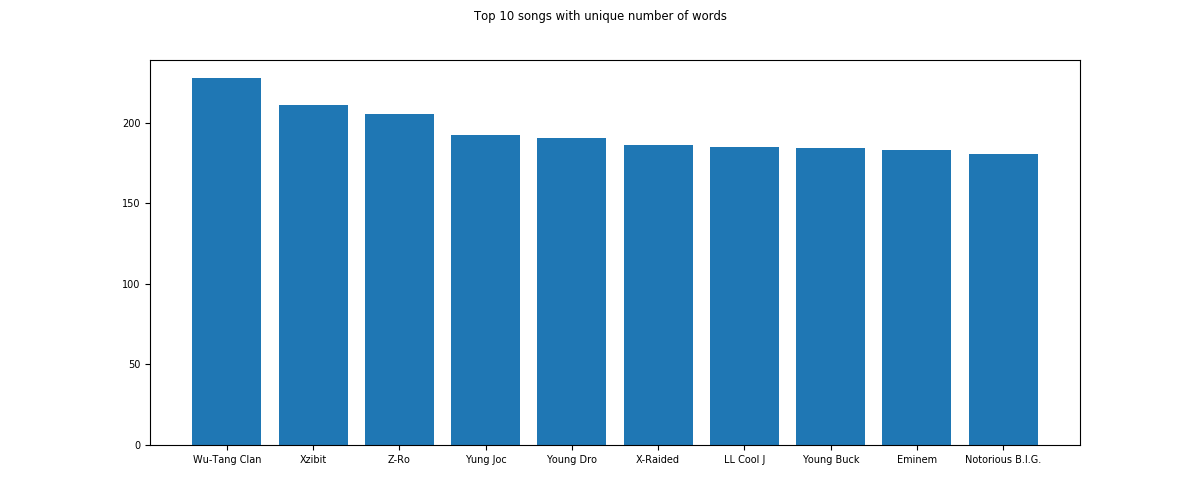
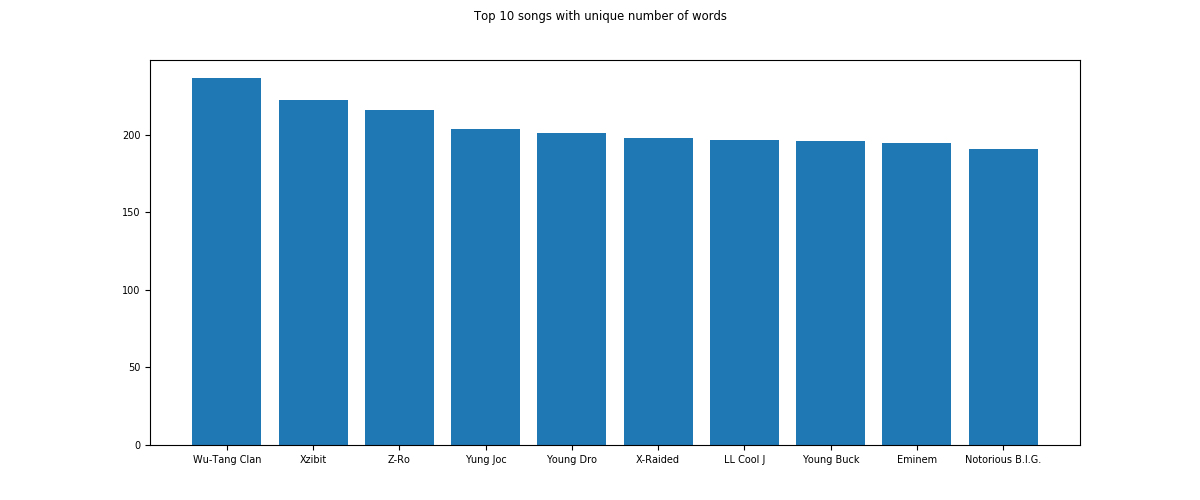
A1 EECS4415

diff --git a/dstats.py b/dstats.py
@@ -61,11 +61,18 @@ def token_words(lyric):
 #that is not punctuation & stopwords(nltk.stopwords)
     lyric = lyric.lower()
     #tokenizer that will tokenize lyric('text') into words without punctuation
-    tokenizer = RegexpTokenizer(r'\w+')
+    #will split aphostrophe words into 2 seperate words but its okay as we only care about full words
+    # e.g : would've = would ve but this is fine as we know stopwords will remove ve
+    # tweetTokenizer was producing very irregular words in lyric such as (8, numbers and was dist
+
+    #tokenize word into alphabets only
+    tokenizer = RegexpTokenizer(r'[a-z]+')
     #apply tokenizer
     words = tokenizer.tokenize(lyric)
     #convert list of stopwords to set of stopwords for faster access
     en_stopwords = set(stopwords.words('english'))
+
+    #we remove stopwords in words
     words_lyric = [w for w in words if not w in en_stopwords]
     return words_lyric
 
